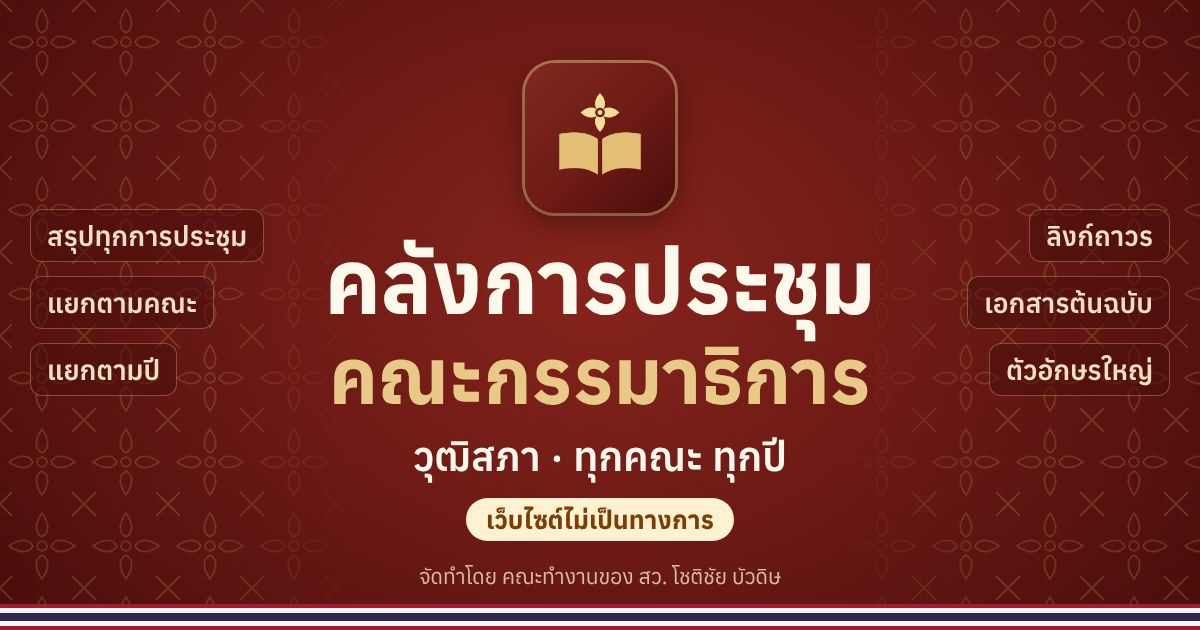
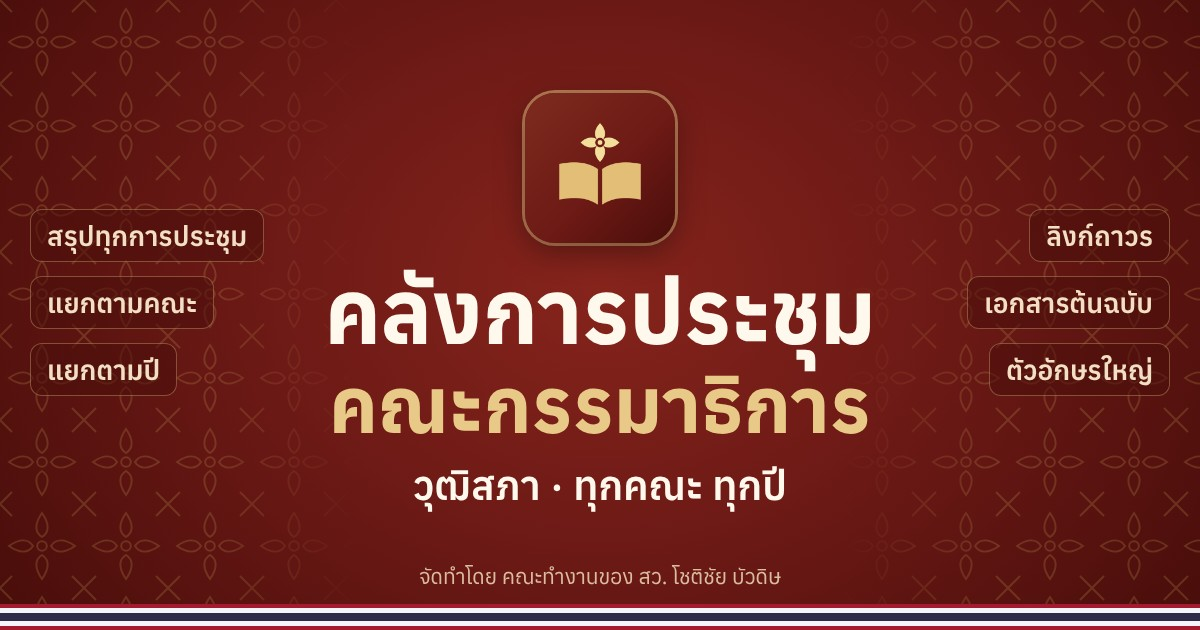
ภาพการ์ดแชร์ไม่มีป้าย "เว็บไซต์ไม่เป็นทางการ" (ข้อความยังอยู่ในคำอธิบายลิงก์และหน้าเว็บ) และเพิ่มโครงร่างระหว่างโหลดรายการ (skeleton loading)
Claude-Session: https://claude.ai/code/session_01CvQ3oQphdHGPik4UMzbU6Y

Changed region(s): [[0.2775, 0.0905, 0.74, 0.8746], [0.555, 0.1508, 0.5858, 0.181]]

diff --git a/index.html b/index.html
@@ -159,6 +159,27 @@ footer a{color:#F1DFB4}
 @media (max-width:520px){.facts{grid-template-columns:1fr}.cmte{padding:16px}.ybtn{width:100%}}
 @media (prefers-reduced-motion:reduce){*{transition:none!important}}
 </style>
+<!--SKEL-->
+<style id="skel-layer">
+.sk-wrap{display:grid;gap:16px;opacity:0;animation:sk-in .3s ease .35s forwards}
+.sk-card{background:var(--paper,#fff);border:1px solid var(--line,#e4d9c7);border-radius:18px;padding:18px;display:grid;gap:12px;
+  box-shadow:0 1px 2px rgba(60,20,10,.05),0 10px 26px -18px rgba(60,20,10,.18)}
+.sk-b{display:block;height:1.05em;border-radius:10px;background:var(--ink,#22170f);opacity:.08;animation:sk-pulse 1.3s ease-in-out .35s infinite alternate}
+.sk-b.h{height:2.2em;border-radius:12px}
+.sk-b.t{height:1.5em;width:82%}
+.sk-b.s{width:58%}
+.sk-b.bt{height:3.1em;border-radius:16px;width:100%;margin-top:4px}
+.sk-row{display:flex;gap:12px;align-items:center}
+.sk-row .sk-b.av{flex:none;width:3.2em;height:3.2em;border-radius:50%}
+.sk-row .sk-b{flex:1}
+.sk-sr{position:absolute;width:1px;height:1px;overflow:hidden;clip:rect(0 0 0 0);white-space:nowrap}
+@keyframes sk-in{to{opacity:1}}
+@keyframes sk-pulse{from{opacity:.06}to{opacity:.13}}
+@media (prefers-reduced-motion:reduce){.sk-wrap{animation:none;opacity:1}.sk-b{animation:none}}
+@media print{.sk-wrap{display:none}}
+img[loading="lazy"][src$=".jpg"],img[loading="lazy"][src*=".jpg?"],img.bgp{background-color:rgba(127,112,100,.16)}
+</style>
+<noscript><style>.sk-wrap{display:none}</style></noscript>
 </head>
 <body>
 <svg width="0" height="0" style="position:absolute" aria-hidden="true">
@@ -200,7 +221,7 @@ footer a{color:#F1DFB4}
 
  <section class="sec" aria-labelledby="h-list">
   <h2 id="h-list"><svg class="ico" aria-hidden="true"><use href="#i-cols"/></svg>คณะกรรมาธิการ</h2>
-  <div class="list" id="list"></div>
+  <div class="list" id="list"><div class="sk-wrap" aria-hidden="true"><div class="sk-card"><span class="sk-b h"></span><span class="sk-b t"></span><div class="sk-row"><span class="sk-b av"></span><span class="sk-b s"></span></div><span class="sk-b"></span><span class="sk-b"></span><span class="sk-b s"></span><span class="sk-b bt"></span></div><div class="sk-card"><span class="sk-b h"></span><span class="sk-b t"></span><div class="sk-row"><span class="sk-b av"></span><span class="sk-b s"></span></div><span class="sk-b"></span><span class="sk-b"></span><span class="sk-b s"></span><span class="sk-b bt"></span></div><div class="sk-card"><span class="sk-b h"></span><span class="sk-b t"></span><div class="sk-row"><span class="sk-b av"></span><span class="sk-b s"></span></div><span class="sk-b"></span><span class="sk-b"></span><span class="sk-b s"></span><span class="sk-b bt"></span></div></div><span class="sk-sr">กำลังโหลดรายชื่อคณะกรรมาธิการ</span></div>
  </section>
 
  <div class="keep">
